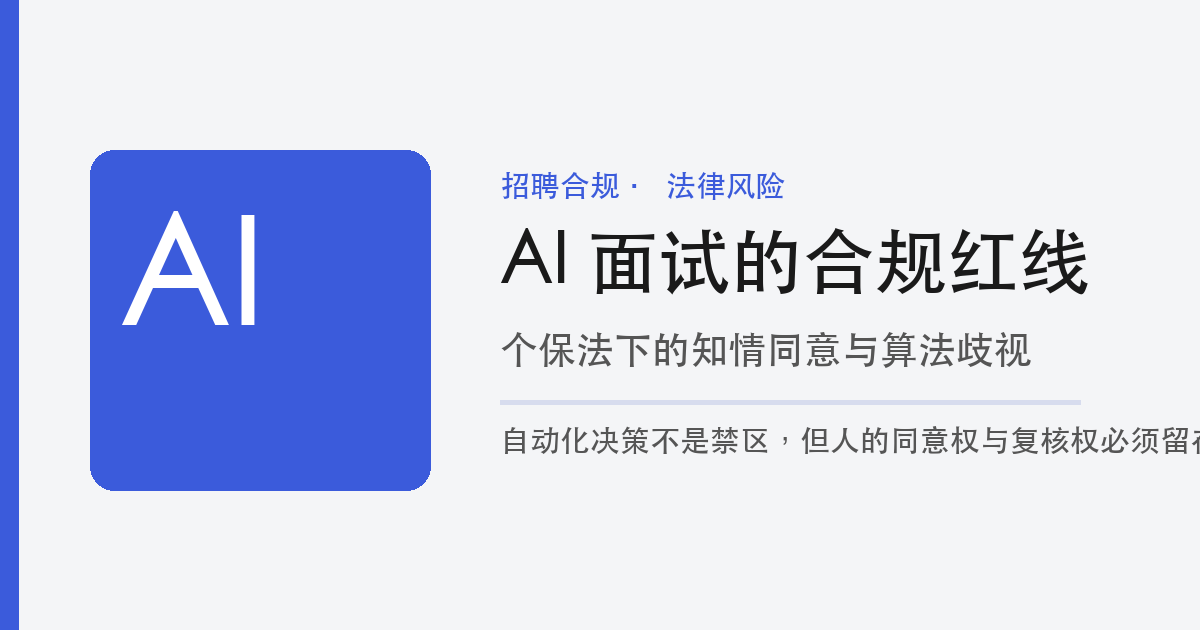
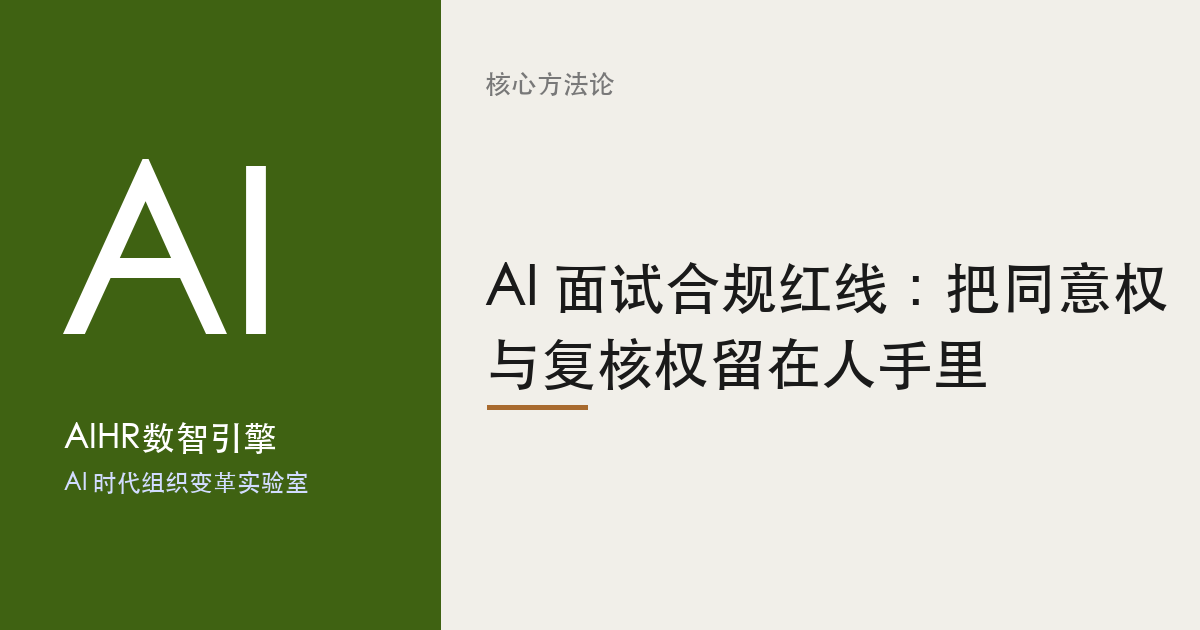
feat(content): ADKAR 复盘 AI 转型落地失败 + 6 张 OG 封面品牌重塑

diff --git a/articles/adkar-ai-transformation.html b/articles/adkar-ai-transformation.html
@@ -1,0 +1,100 @@
+<!DOCTYPE html><html lang="zh-CN"><head>
+  <link rel="preconnect" href="https://www.googletagmanager.com">
+  <link rel="preconnect" href="https://hm.baidu.com">
+  <link rel="preconnect" href="https://fonts.googleapis.com">
+  <link rel="preconnect" href="https://fonts.gstatic.com" crossorigin>
+
+<meta charset="utf-8"/><link href="/favicon.ico" rel="icon" type="image/x-icon"/><link href="/favicon.ico" rel="shortcut icon" type="image/x-icon"/><meta content="width=device-width, initial-scale=1" name="viewport"/><title>ADKAR 复盘：AI 转型为何卡在落地</title>
+<meta name="description" content="AI 转型的失败很少是技术问题，而是变革管理失败。用 Prosci 的 ADKAR 模型拆解 88% 未投产、6% 落地率背后的卡点：绝大多数组织停在 Desire（不愿变）与 Ability（不会变），而非 Aware（不知要变）。本文给出 HR 一号位可落地的变革管理框架。">
+
+<meta content="AI 转型的失败很少是技术问题，而是变革管理失败。用 Prosci 的 ADKAR 模型拆解 88% 未投产、6% 落地率背后的卡点：多数组织停在 Desire（不愿变）与 Ability（不会变），而非 Aware（不知要变）。本文给出 HR 一号位可落地的变革管理框架。" property="og:description"/><meta content="article" property="og:type"/><meta content="ADKAR 复盘：AI 转型为何卡在落地" property="og:title"/><meta content="ADKAR 复盘：AI 转型为何卡在落地" name="twitter:title"/><meta name="twitter:card" content="summary_large_image"/><meta name="twitter:site" content="@AIHRLab"/><meta name="twitter:description" content="AI 转型的失败很少是技术问题，而是变革管理失败。用 ADKAR 拆解 88% 未投产背后的卡点：多数组织停在 Desire 与 Ability，而非 Aware。"/><meta name="twitter:image" content="https://www.aihrlab.online/assets/og-covers/og-adkar-ai-transformation.png"><meta content="2026-08-04T23:30:00+08:00" property="article:published_time"/> <script type="application/ld+json">
+{
+  "@context": "https://schema.org",
+  "@type": "Article",
+  "headline": "ADKAR 复盘：AI 转型为何卡在落地", "description": "AI 转型的失败很少是技术问题，而是变革管理失败。用 Prosci 的 ADKAR 模型拆解 88% 未投产、6% 落地率背后的卡点：多数组织停在 Desire（不愿变）与 Ability（不会变），而非 Aware（不知要变）。本文给出 HR 一号位可落地的变革管理框架。", "datePublished": "2026-08-04T23:30:00+08:00","author": {"@type": "Organization", "name": "AIHR数智引擎"},"publisher": {"@type": "Organization", "name": "AIHR数智引擎", "logo": {"@type": "ImageObject", "url": "https://www.aihrlab.online/assets/og-covers/og-adkar-ai-transformation.png"}}, "dateModified": "2026-08-04", "inLanguage": "zh-CN", "mainEntityOfPage": { "@type": "WebPage", "@id": "https://www.aihrlab.online/articles/adkar-ai-transformation.html" }, "image": "https://www.aihrlab.online/assets/og-covers/og-adkar-ai-transformation.png", "about": { "@type": "Thing", "name": "ADKAR 与 AI 转型变革管理", "description": "用 Prosci ADKAR 变革管理模型拆解 AI 转型落地失败的根因，以及 HR 一号位如何把变革管理产品化" }, "keywords": ["ADKAR","变革管理","AI转型","组织变革","落地率","Prosci","HR一号位"], "wordCount": "3100", "timeRequired": "PT13M", "articleSection": "核心方法论" } </script><script type="application/ld+json"> { "@context": "https://schema.org", "@type": "FAQPage", "mainEntity": [ {"@type": "Question", "name": "ADKAR 是什么？", "acceptedAnswer": {"@type": "Answer", "text": "ADKAR 是变革管理咨询机构 Prosci 提出的个人层面变革模型，由 Jeff Hiatt 在 2006 年的著作《ADKAR: a model for change in business, government, and our community》中系统阐述。五个字母分别对应变革发生的五个递进阶段：Awareness（认知到为何要变）、Desire（产生参与和支持变革的意愿）、Knowledge（知道怎么变）、Ability（具备执行新行为的能力）、Reinforcement（用机制巩固改变）。它强调变革是sequential的——前一段不成立，后一段就无从谈起。"}}, {"@type": "Question", "name": "AI 转型最常卡在 ADKAR 哪一段？", "acceptedAnswer": {"@type": "Answer", "text": "绝大多数企业卡在 Desire 与 Ability，而不是 Awareness。技术能讲清、试点能跑通，说明 Aware 和 Knowledge 基本到位；但业务一号位和中层缺乏「为何要变自己」的真实意愿（Desire 缺位），员工也缺少把新工具变成日常肌肉记忆的训练与陪跑（Ability 缺位）。这正好解释了为何大量企业「试点成功、规模失败」。"}}, {"@type": "Question", "name": "HR 一号位怎么用 ADKAR 推动 AI 落地？", "acceptedAnswer": {"@type": "Answer", "text": "把变革管理当成产品来运营，而不是一次宣讲。Awareness 由 CEO 用真实业务痛点和数据来讲，而非 IT 部门讲技术；Desire 靠把 AI 指标绑进管理者绩效与晋升，让「变」成为理性选择；Knowledge/Ability 由 HRBP 做陪跑式教练而非一次性培训；Reinforcement 用季度复盘、最佳实践沉淀和反向问责把新行为固化。HR 从「组织变革的助手」升级为「变革管理的产品经理」。"}} ] }
+</script><script type="application/ld+json">
+{
+  "@context": "https://schema.org",
+  "@type": "BreadcrumbList",
+  "itemListElement": [
+    {"@type": "ListItem", "position": 1, "name": "首页", "item": "https://www.aihrlab.online/"},
+    {"@type": "ListItem", "position": 2, "name": "文章", "item": "https://www.aihrlab.online/articles/"},
+    {"@type": "ListItem", "position": 3, "name": "ADKAR 复盘：AI 转型为何卡在落地"}
+  ]
+}
+</script>
+<meta name="last-modified" content="2026-08-04">
+<link rel="icon" type="image/png" sizes="96x96" href="/assets/images/favicon-96x96.png">
+<link rel="icon" type="image/png" sizes="48x48" href="/assets/images/favicon-48x48.png">
+<link rel="icon" type="image/png" sizes="32x32" href="/assets/images/favicon-32x32.png">
+<link rel="icon" type="image/png" sizes="16x16" href="/assets/images/favicon-16x16.png">
+<link rel="shortcut icon" type="image/x-icon" href="/favicon.ico">
+<link rel="apple-touch-icon" sizes="180x180" href="/assets/images/apple-touch-icon.png">
+<link href="/assets/css/style.min.css" rel="stylesheet"/>
+<link href="https://www.aihrlab.online/articles/adkar-ai-transformation.html" rel="canonical"/>
+<meta property="og:url" content="https://www.aihrlab.online/articles/adkar-ai-transformation.html">
+<meta property="og:image" content="https://www.aihrlab.online/assets/og-covers/og-adkar-ai-transformation.png">
+</head>
+<body><nav class="breadcrumb-nav" aria-label="面包屑导航"><ol itemscope itemtype="https://schema.org/BreadcrumbList"><li itemprop="itemListElement" itemscope itemtype="https://schema.org/ListItem"><a itemprop="item" href="/"><span itemprop="name">首页</span></a><meta itemprop="position" content="1"></li></ol></nav>
+<script src="/assets/js/nav.js" defer></script>
+<header class="site-header"><div class="container"><a href="/index.html" class="site-logo" aria-label="AIHR数智引擎首页"><img src="/assets/images/logo.png" class="logo-icon" alt="AIHR数智引擎" width="28" height="28"> AIHR<span class="logo-dot">数智引擎</span></a><button class="nav-toggle" aria-label="打开导航菜单">☰</button><nav class="site-nav" aria-label="主导航"><a href="/index.html">首页</a><a href="/articles/index.html">文章</a><a href="/tools/index.html">测评</a><a href="/bridge/index.html">策展</a><a href="/resources/index.html">资源库</a><a href="/about.html">关于</a><button class="nav-search-btn" data-open-search aria-label="搜索文章"><svg viewBox="0 0 24 24" fill="none" stroke="currentColor" stroke-width="2"><circle cx="11" cy="11" r="8"/><path d="m21 21-4.35-4.35"/></svg><span>搜索</span><span class="shortcut-hint"><kbd>⌘</kbd><kbd>K</kbd></span></button></nav></div></header>
+<div class="article-layout article-layout--with-toc"><article class="article-content-wrapper" data-category="核心方法论"><header class="article-header"><h1>ADKAR 复盘：AI 转型为何卡在落地</h1><p class="article-subtitle">AI 转型的失败很少是技术问题，而是变革管理失败。大量企业「试点成功、规模失败」，根因不在模型不够强，而在人没真的想变、也不会变。</p><div class="article-tags"><span>ADKAR</span><span>变革管理</span><span>AI转型</span><span>组织变革</span><span>HR一号位</span></div>  <div class="article-meta"><time datetime="2026-08-04">2026年8月4日</time><span>来源：Prosci ADKAR 模型（Hiatt, 2006）与公开落地调研整理</span></div>
+</header>
+    <div class="geo-answer-capsule">
+      <p class="geo-answer-capsule__label">核心结论</p>
+      <p class="geo-answer-capsule__text">AI 转型卡在落地，根因是变革管理失败，不是技术失败。用 Prosci 的 ADKAR 模型看，绝大多数组织停在 Desire（不愿变）与 Ability（不会变），而非 Awareness（不知要变）。技术能讲清、试点能跑通，但业务一号位缺乏「为何要变自己」的真实意愿，员工缺少把工具变成肌肉记忆的陪跑——这才是 88% 未投产、个位数落地率背后的真实卡点。HR 的角色，是把变革管理当成产品来运营。</p>
+    </div>
+    <figure class="article-banner">
+      <img src="/assets/og-covers/og-adkar-ai-transformation.png" alt="ADKAR 复盘：AI 转型为何卡在落地 题图" width="1200" height="630" loading="eager" fetchpriority="high" decoding="async">
+    </figure><div class="article-content"><p>每隔几个月，就有一份新报告说「AI 转型失败了」。数字很吓人：本站此前梳理的 Agent ROI 调研显示，声称 AI 带来回报的企业高达 80%，但真正把能力投产的只有约 12%；麦肯锡系列报告里被反复引用的落地率长期在个位数（本站此前梳理其 2025—2026 报告口径约 6%）。一边是全员试点、人人演示，一边是规模落地遥遥无期。</p><p>但「技术失败」是最省事的解释，也是错的解释。把同一批企业拆开看，<strong>模型能跑、试点能成、POC 能演示</strong>——技术这一关早过了。真正过不去的，是「人要不要变、会不会变」。本文用 Prosci 的 ADKAR 模型，把这层窗户纸捅破：AI 转型失败，是变革管理失败。</p>
+<section><h2 id="s1">「试点成功、规模失败」的怪圈</h2><p>几乎所有卡在落地的企业，都经历过同一个剧本：选一两个高光场景，配精锐小组，三个月交出漂亮 POC；高管拍照、内网表扬；然后——没有然后了。试点经验没有扩散，工具没有进日常，三个月后一切回到原样。</p><p>这不是中国特有的现象，是全球通病。Prosci 在历轮变革管理基准研究中反复指出：变革成败的分水岭，从来不是工具多先进，而是「个人是否真正走过变革」——也就是有没有人愿意、并且有能力用新方式工作。当组织把 AI 当成 IT 项目来管（立项、采购、上线），而不是当成人的变革来运营，规模失败几乎注定。</p><p>更隐蔽的一层是：很多一号位自己也没走完变革。他们愿意为 AI 拍板预算、愿意在战略会上讲愿景，却不愿动自己的决策方式和管理节奏——这恰是 ADKAR 第二关 Desire 的缺失。变革如果只要求别人变、不要求自己变，落地率必然止于个位数。</p></section><section><h2 id="s2">ADKAR：个人变革的五道闸门</h2><p>ADKAR 是变革管理机构 Prosci 提出的个人层面变革模型，由 Jeff Hiatt 在 2006 年的著作《ADKAR: a model for change in business, government, and our community》中系统阐述。它把「一个人为什么能发生改变」拆成五个递进阶段，每个字母是一道闸门：</p><ul><li><strong>A — Awareness（认知）：</strong>知道为什么非变不可。不是「公司有 AI 战略」这种口号，而是清楚看到自己业务的具体痛点与不变的成本。</li><li><strong>D — Desire（意愿）：</strong>产生参与和支持变革的真实意愿。知道要变，不等于想变；意愿来自「变了对我有什么好处、不变有什么代价」的理性计算。</li><li><strong>K — Knowledge（认知如何变）：</strong>知道新方式长什么样、自己要学什么。培训解决的是这一层。</li><li><strong>A — Ability（能力）：</strong>真正具备把知识变成日常行为的能力。这要靠陪跑、练习和容错，不是听一堂课。</li><li><strong>R — Reinforcement（巩固）：</strong>用机制把新行为固化，防止退回旧习惯。没有这一层，变革会在压力下反弹。</li></ul><p>模型最关键的一条纪律是：<strong>这五关是顺序的，前一道不通，后一道就立不住。</strong>一个连「为何要变」都没被说服的业务一号位（Awareness 弱），给他再多的培训（Knowledge）也没用；一群被强制要求用新工具但旧 KPI 不变的人（Reinforcement 缺失），会在考核季悄悄退回老办法。</p></section><section><h2 id="s3">把失败映射到 ADKAR：卡在 D 与 A</h2><p>回到开头那两个数字——80% 说赚、12% 投产，麦肯锡口径约 6% 落地率。如果用 ADKAR 当透视镜，会发现绝大多数组织根本没倒在 Awareness，而是倒在 Desire 和 Ability。</p><p><strong>Desire 缺位：一号位和中层「不愿变自己」。</strong>技术部门把 Awareness 做得很足（发布会、内训、看板），但 Desire 几乎没人负责。业务一号位的绩效里没有「AI 落地」这一项，晋升也不看「带团队完成转型」；中层则更现实——AI 往往意味着自己的协调、汇报、进度追踪职能被接管，等于动了自己的权力结构。当变革的受益者是公司、成本是个人，Desire 自然起不来。这正是「试点成功、规模失败」的结构性根源：试点小组有强烈 Desire（被看见、被奖励），规模化要动所有人的奶酪，意愿归零。</p><p><strong>Ability 缺位：员工「不会变」。</strong>即便意愿有了，Knowledge 不等于 Ability。一场全员 AI 培训讲完工具用法，不等于员工下周就能把 AI 写进日常 workflow。Ability 需要陪跑——把新工具拆成具体任务、在真实工作里反复练、允许前几周笨拙。多数企业把 Ability 简化成「发个教程、办个培训」，然后困惑为什么没人用。本站此前梳理的「88% 未投产」，绝大部分不是不会用工具，而是没人为 Ability 这一段配时间和教练。</p><p>一个反直觉的判断：<strong>AI 转型真正的瓶颈，从来不是模型够不够强，而是组织有没有把 D 和 A 当成正经工程来做。</strong>技术可以采购，意愿和能力买不来。</p></section><section><h2 id="s4">越过 Ability 的真实样本</h2><p>同样是「规模落地」，少数组织确实跨过了 Desire 和 Ability 的门槛，共性很清楚：</p><p><strong>把 AI 指标绑进管理者绩效。</strong>当「带团队用 AI 提效」成为一号位考核项、晋升硬杠杆，Desire 就不是靠动员，而是靠制度。字节把绩效评估从现金奖金转向股权绑定（详见本站对字节绩效变革的梳理），本质是把「长期行为」和「个人收益」焊死——这类机制一旦用于 AI 落地，Desire 立刻从软倡议变硬约束。</p><p><strong>用陪跑替代培训。</strong>跨过 Ability 的企业，普遍把「一次性培训」换成「嵌入工作流的教练式陪跑」：HRBP 跟着业务跑前几周，把 AI 写成具体任务清单，允许试错。这与本站此前梳理的「AI 落地失败、原因在组织没变」结论一致——组织不变，Ability 无从沉淀。</p><p><strong>建信任架构而非硬推。</strong>麦肯锡关于 6% 落地率的反思，指向的是「AI-First 信任架构」：先把数据权限、决策边界、复核机制搭清楚，再谈规模。信任架构解决的是 Reinforcement 的前提——人在新流程里知道边界在哪、责任归谁，才敢持续用。</p></section><section><h2 id="s5">三个绕不开的风险</h2><p>用 ADKAR 推 AI 落地，有三道最容易踩的坑：</p><ul><li><strong>变革疲劳。</strong>一年到头战略无数，员工对「又要变」早已脱敏。ADKAR 的 Awareness 若每次都靠新口号，边际效用递减。解法不是少变，而是把 AI 变革和员工真实痛点绑定（用他自己的低效场景讲为什么要变），而非和公司宏大叙事绑定。</li><li><strong>把变革管理当培训。</strong>这是最常见的错位：砸钱做全员 AI 培训，以为 Knowledge 到位就万事大吉，忽略 Desire 和 Ability。培训覆盖的是 K，落地的命门在 D 和 A。</li><li><strong>指标错配。</strong>用「采购了多少licenses、办了多少场培训」衡量变革进度，等于在测 Awareness/Knowledge，而真正的关口 Desire/Ability 无人度量。当 KPI 本身量错了对象（详见本站对 KPI 物理失效的梳理），落地率必然失真。</li></ul>
+      <div class="inline-related">
+      <p class="inline-related__label">延伸阅读</p>
+      <ul><li><a href="/articles/ai-landing-fails-org-not-changed.html">88%企业AI落地失败，原因不在技术，在组织没变</a></li><li><a href="/articles/ai-agent-roi-reality-2026.html">Agent ROI现实检验：80%说赚，88%未投产</a></li><li><a href="/articles/mckinsey-6-percent-trust-architecture.html">麦肯锡6%落地率：AI-First信任架构怎么搭</a></li></ul>
+    </div></section><section><h2 id="s6">HR 一号位的可落地框架</h2><p>把 ADKAR 落到组织运营，HR 不是「变革的助手」，而是「变革管理的产品经理」。具体分工：</p><ol><li><strong>CEO/一号位做 Awareness 的源头。</strong>为何要变的叙事必须由业务一号位用真实痛点讲，而非 IT 部门讲技术。变革的紧迫感来自业务成本，不是来自 AI 趋势。</li><li><strong>COE 把 Desire 做成制度。</strong>把「AI 落地」写进管理者绩效与晋升标准，让「变」成为理性选择。同时设计 Reinforcement 机制——季度复盘、最佳实践沉淀、反向问责（不变的有代价）。COE 从「写制度的人」升级为「设计变革产品的产品经理」。</li><li><strong>HRBP 做 Ability 的陪跑者。</strong>不用一次性培训，而是把 AI 写成具体任务、嵌入业务工作流、陪跑前几周。HRBP 从「培训组织者」变成「行为改变的教练」。</li><li><strong>管理者做日常 Reinforcement。</strong>在每个考核周期把新行为纳入复盘，表扬用新方式拿到结果的人，让旧习惯失去土壤。Reinforcement 不是 HR 的事，是一线管理者的日常。</li></ol><p>一句话总结：<strong>AI 转型能不能落地，不取决于模型，取决于组织有没有把「人愿不愿意变、会不会变」当成一门正经工程。</strong>ADKAR 给的不是一个工具清单，而是一面镜子——它照出大多数企业停在 Desire 和 Ability 的真相，也照出 HR 一号位真正该补的那块能力。这正是 <a href="/articles/hr-three-pillar-ai.html" class="ilink">AI重构HR三支柱：COE/SSC/BP的智能化路径</a> 在变革管理这条线上最具体的落点。</p></section>
+    <div class="next-path">
+      <p class="next-path__label">下一步 · 选你最想深入的</p>
+      <div class="next-path__grid">
+        <a class="next-path__card" href="/articles/hr-three-pillar-ai.html">
+          <span class="next-path__tag">组织底座</span>
+          <p class="next-path__title">AI重构HR三支柱</p>
+          <p class="next-path__desc">COE 变变革产品经理、SSC 交对话式 Agent、BP 升陪跑教练——变革管理的组织前提。</p>
+        </a>
+        <a class="next-path__card" href="/articles/hr-digital-employee-2026.html">
+          <span class="next-path__tag">执行层</span>
+          <p class="next-path__title">HR 数字员工</p>
+          <p class="next-path__desc">把协调、汇报、进度追踪这类被 AI 接管的传递层工作，交给数字员工。</p>
+        </a>
+        <a class="next-path__card" href="/articles/ai-flattening-management-guide.html">
+          <span class="next-path__tag">管理方法</span>
+          <p class="next-path__title">AI时代扁平化管理</p>
+          <p class="next-path__desc">层级削减会直接冲击中层 Desire，扁平化必须与变革管理同步设计。</p>
+        </a>
+        <a class="next-path__card" href="/articles/kpi-failure-ai-org-restructure.html">
+          <span class="next-path__tag">指标反思</span>
+          <p class="next-path__title">KPI 物理失效</p>
+          <p class="next-path__desc">当度量对象错了，落地率必然失真——变革进度该量 Desire 与 Ability，不是培训场次。</p>
+        </a>
+      </div>
+    </div>
+</div>
+<section class="related-reading">
+  <h3>相关阅读</h3>
+  <ul>
+    <li><a href="/articles/ai-landing-fails-org-not-changed.html">88%企业AI落地失败，原因不在技术，在组织没变</a></li>
+    <li><a href="/articles/ai-agent-roi-reality-2026.html">Agent ROI现实检验：80%说赚，88%未投产</a></li>
+    <li><a href="/articles/mckinsey-6-percent-trust-architecture.html">麦肯锡6%落地率：AI-First信任架构怎么搭</a></li>
+    <li><a href="/articles/hr-three-pillar-ai.html">AI重构HR三支柱：COE/SSC/BP的智能化路径</a></li>
+    <li><a href="/articles/kpi-failure-ai-org-restructure.html">KPI物理失效：AI原生组织的效能重构</a></li>
+  </ul>
+</section>
+<div class="article-footer-qr">
+  <img decoding="async" loading="lazy" alt="AIHR数智引擎公众号二维码" src="/assets/images/qrcode-wechat.webp" width="160" height="160">
+  <p>关注公众号，获取 AI 时代 HR 变革一手分析</p>
+</div>
+<aside class="toc-rail"><nav class="toc"><h4>目录</h4><ol><li><a href="#s1">「试点成功、规模失败」的怪圈</a></li><li><a href="#s2">ADKAR：个人变革的五道闸门</a></li><li><a href="#s3">把失败映射到 ADKAR：卡在 D 与 A</a></li><li><a href="#s4">越过 Ability 的真实样本</a></li><li><a href="#s5">三个绕不开的风险</a></li><li><a href="#s6">HR 一号位的可落地框架</a></li></ol></nav></aside></article>
+</div>
+<footer class="site-footer"><div class="container"><div class="footer-grid"><div class="footer-col"><a href="/index.html" class="site-logo" aria-label="AIHR数智引擎首页"><img src="/assets/images/logo.png" class="logo-icon" alt="AIHR数智引擎" width="28" height="28"> AIHR<span class="logo-dot">数智引擎</span></a><p class="footer-desc">AI 时代组织变革实验室。聚焦 AI 驱动组织变革、大厂组织架构调整、AI 人才战略与智能组织设计。</p></div><div class="footer-col"><h4>内容</h4><ul><li><a href="/articles/index.html">全部文章</a></li><li><a href="/hub/ai-org-transformation.html">AI 组织变革枢纽</a></li><li><a href="/glossary/index.html">AI+HR 术语词典</a></li><li><a href="/bridge/index.html">策展与测评</a></li></ul></div><div class="footer-col"><h4>关于</h4><ul><li><a href="/about.html">关于我们</a></li><li><a href="/resources/index.html">资源库</a></li></ul></div></div><div class="footer-bottom"><p>© 2026 AIHR数智引擎 · AI 时代组织变革实验室</p></div></div></footer>
+<script src="/assets/js/main.js" defer></script>
+<script src="/assets/js/content-protect.js" defer></script>
+</body></html>

diff --git a/articles/index.html b/articles/index.html
@@ -170,6 +170,62 @@
   </a>
 </article>
 
+<article class="article-card" data-category="核心方法论">
+  <a href="/articles/ai-org-two-models-compare-2026.html" class="article-link">
+    <span class="article-tag">核心方法论</span>
+    <h3 class="article-title">人工智能两大组织对比：差的不只是用不用AI</h3>
+    <time class="article-date" datetime="2026-08-05">2026.08.05</time>
+  </a>
+</article>
+
+<article class="article-card" data-category="核心方法论">
+  <a href="/articles/bytedance-performance-review-2026.html" class="article-link">
+    <span class="article-tag">核心方法论</span>
+    <h3 class="article-title">字节绩效评估变了:从现金奖金到股权绑定</h3>
+    <time class="article-date" datetime="2026-08-05">2026.08.05</time>
+  </a>
+</article>
+
+<article class="article-card" data-category="核心方法论">
+  <a href="/articles/global-tech-hr-ai-disruption-2026.html" class="article-link">
+    <span class="article-tag">核心方法论</span>
+    <h3 class="article-title">2026全球HR大洗牌：五巨头如何用AI重写人力资源</h3>
+    <time class="article-date" datetime="2026-08-05">2026.08.05</time>
+  </a>
+</article>
+
+<article class="article-card" data-category="核心方法论">
+  <a href="/articles/idc-2026-hr-ai-agent-guide.html" class="article-link">
+    <span class="article-tag">核心方法论</span>
+    <h3 class="article-title">IDC 2026：HR AI Agent选型指南</h3>
+    <time class="article-date" datetime="2026-08-05">2026.08.05</time>
+  </a>
+</article>
+
+<article class="article-card" data-category="核心方法论">
+  <a href="/articles/mckinsey-2026-training-vs-screening.html" class="article-link">
+    <span class="article-tag">核心方法论</span>
+    <h3 class="article-title">麦肯锡2026：HR必须从培训转向筛选</h3>
+    <time class="article-date" datetime="2026-08-05">2026.08.05</time>
+  </a>
+</article>
+
+<article class="article-card" data-category="核心方法论">
+  <a href="/articles/microsoft-anthropic-ai-org-restructure.html" class="article-link">
+    <span class="article-tag">核心方法论</span>
+    <h3 class="article-title">微软砸架构Anthropic灭中层：组织底层代码重构</h3>
+    <time class="article-date" datetime="2026-08-05">2026.08.05</time>
+  </a>
+</article>
+
+<article class="article-card" data-category="核心方法论">
+  <a href="/articles/xiaomi-2026-org-evolution.html" class="article-link">
+    <span class="article-tag">核心方法论</span>
+    <h3 class="article-title">组织进化论：拆解小米2026战略背后的组织变革</h3>
+    <time class="article-date" datetime="2026-08-05">2026.08.05</time>
+  </a>
+</article>
+
 <article class="article-card" data-category="组织变革">
   <a href="/articles/ai-silent-org-signals.html" class="article-link">
     <span class="article-tag">组织变革</span>
@@ -222,6 +278,14 @@
   <a href="/articles/anthropic-engineer-three-stages.html" class="article-link">
     <span class="article-tag">AI转型</span>
     <h3 class="article-title">Anthropic报告：AI时代工程师三阶跃迁</h3>
+    <time class="article-date" datetime="2026-08-04">2026.08.04</time>
+  </a>
+</article>
+
+<article class="article-card" data-category="核心方法论">
+  <a href="/articles/adkar-ai-transformation.html" class="article-link">
+    <span class="article-tag">核心方法论</span>
+    <h3 class="article-title">ADKAR 复盘：AI 转型为何卡在落地</h3>
     <time class="article-date" datetime="2026-08-04">2026.08.04</time>
   </a>
 </article>
@@ -331,14 +395,6 @@
 </article>
 
 <article class="article-card" data-category="核心方法论">
-  <a href="/articles/ai-org-two-models-compare-2026.html" class="article-link">
-    <span class="article-tag">核心方法论</span>
-    <h3 class="article-title">人工智能两大组织对比：差的不只是用不用AI</h3>
-    <time class="article-date" datetime="2026-08-04">2026.08.04</time>
-  </a>
-</article>
-
-<article class="article-card" data-category="核心方法论">
   <a href="/articles/ai-performance-management.html" class="article-link">
     <span class="article-tag">核心方法论</span>
     <h3 class="article-title">AI重构绩效管理：从年度考核到持续反馈</h3>
@@ -435,14 +491,6 @@
 </article>
 
 <article class="article-card" data-category="核心方法论">
-  <a href="/articles/bytedance-performance-review-2026.html" class="article-link">
-    <span class="article-tag">核心方法论</span>
-    <h3 class="article-title">字节绩效评估变了:从现金奖金到股权绑定</h3>
-    <time class="article-date" datetime="2026-08-04">2026.08.04</time>
-  </a>
-</article>
-
-<article class="article-card" data-category="核心方法论">
   <a href="/articles/china-ai-org-three-routes.html" class="article-link">
     <span class="article-tag">核心方法论</span>
     <h3 class="article-title">2026中国AI组织三条路线</h3>
@@ -470,14 +518,6 @@
   <a href="/articles/fat-donglai-you-cant-learn.html" class="article-link">
     <span class="article-tag">核心方法论</span>
     <h3 class="article-title">胖东来你学不会：视人为「人」，才是护城河</h3>
-    <time class="article-date" datetime="2026-08-04">2026.08.04</time>
-  </a>
-</article>
-
-<article class="article-card" data-category="核心方法论">
-  <a href="/articles/global-tech-hr-ai-disruption-2026.html" class="article-link">
-    <span class="article-tag">核心方法论</span>
-    <h3 class="article-title">2026全球HR大洗牌：五巨头如何用AI重写人力资源</h3>
     <time class="article-date" datetime="2026-08-04">2026.08.04</time>
   </a>
 </article>
@@ -515,14 +555,6 @@
 </article>
 
 <article class="article-card" data-category="核心方法论">
-  <a href="/articles/idc-2026-hr-ai-agent-guide.html" class="article-link">
-    <span class="article-tag">核心方法论</span>
-    <h3 class="article-title">IDC 2026：HR AI Agent选型指南</h3>
-    <time class="article-date" datetime="2026-08-04">2026.08.04</time>
-  </a>
-</article>
-
-<article class="article-card" data-category="核心方法论">
   <a href="/articles/jd-pinduoduo-ai-org-2026.html" class="article-link">
     <span class="article-tag">核心方法论</span>
     <h3 class="article-title">京东拼多多的AI组织重构：重装与原生两条路</h3>
@@ -534,14 +566,6 @@
   <a href="/articles/kpi-failure-ai-org-restructure.html" class="article-link">
     <span class="article-tag">核心方法论</span>
     <h3 class="article-title">KPI物理失效：AI原生组织的效能重构</h3>
-    <time class="article-date" datetime="2026-08-04">2026.08.04</time>
-  </a>
-</article>
-
-<article class="article-card" data-category="核心方法论">
-  <a href="/articles/mckinsey-2026-training-vs-screening.html" class="article-link">
-    <span class="article-tag">核心方法论</span>
-    <h3 class="article-title">麦肯锡2026：HR必须从培训转向筛选</h3>
     <time class="article-date" datetime="2026-08-04">2026.08.04</time>
   </a>
 </article>
@@ -603,14 +627,6 @@
 </article>
 
 <article class="article-card" data-category="核心方法论">
-  <a href="/articles/microsoft-anthropic-ai-org-restructure.html" class="article-link">
-    <span class="article-tag">核心方法论</span>
-    <h3 class="article-title">微软砸架构Anthropic灭中层：组织底层代码重构</h3>
-    <time class="article-date" datetime="2026-08-04">2026.08.04</time>
-  </a>
-</article>
-
-<article class="article-card" data-category="核心方法论">
   <a href="/articles/musk-2026-ai-interview.html" class="article-link">
     <span class="article-tag">核心方法论</span>
     <h3 class="article-title">马斯克2026访谈：AI递归进化，HR边界消失？</h3>
@@ -662,14 +678,6 @@
   <a href="/articles/wwdc-2026-hr-insights.html" class="article-link">
     <span class="article-tag">核心方法论</span>
     <h3 class="article-title">WWDC2026：Apple智能给HR的启示</h3>
-    <time class="article-date" datetime="2026-08-04">2026.08.04</time>
-  </a>
-</article>
-
-<article class="article-card" data-category="核心方法论">
-  <a href="/articles/xiaomi-2026-org-evolution.html" class="article-link">
-    <span class="article-tag">核心方法论</span>
-    <h3 class="article-title">组织进化论：拆解小米2026战略背后的组织变革</h3>
     <time class="article-date" datetime="2026-08-04">2026.08.04</time>
   </a>
 </article>
